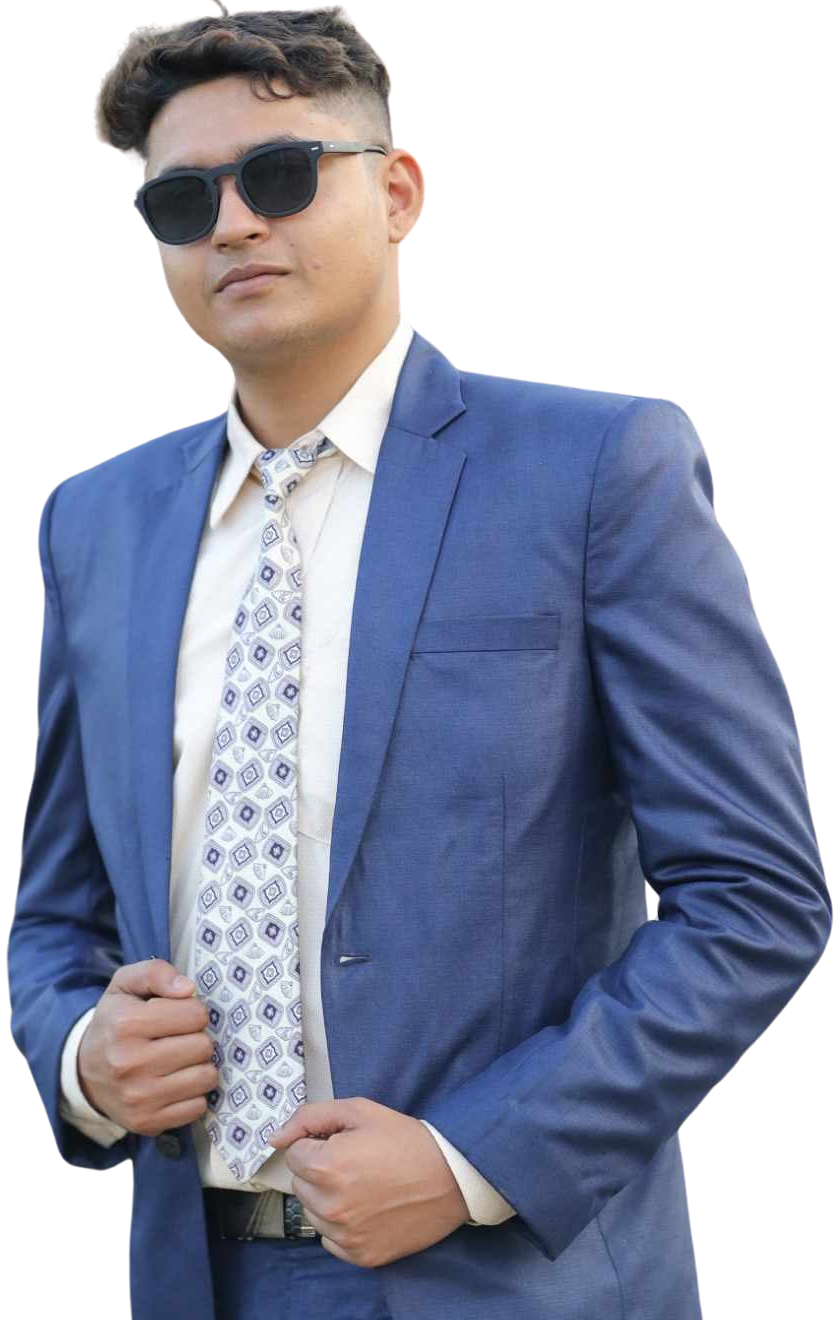
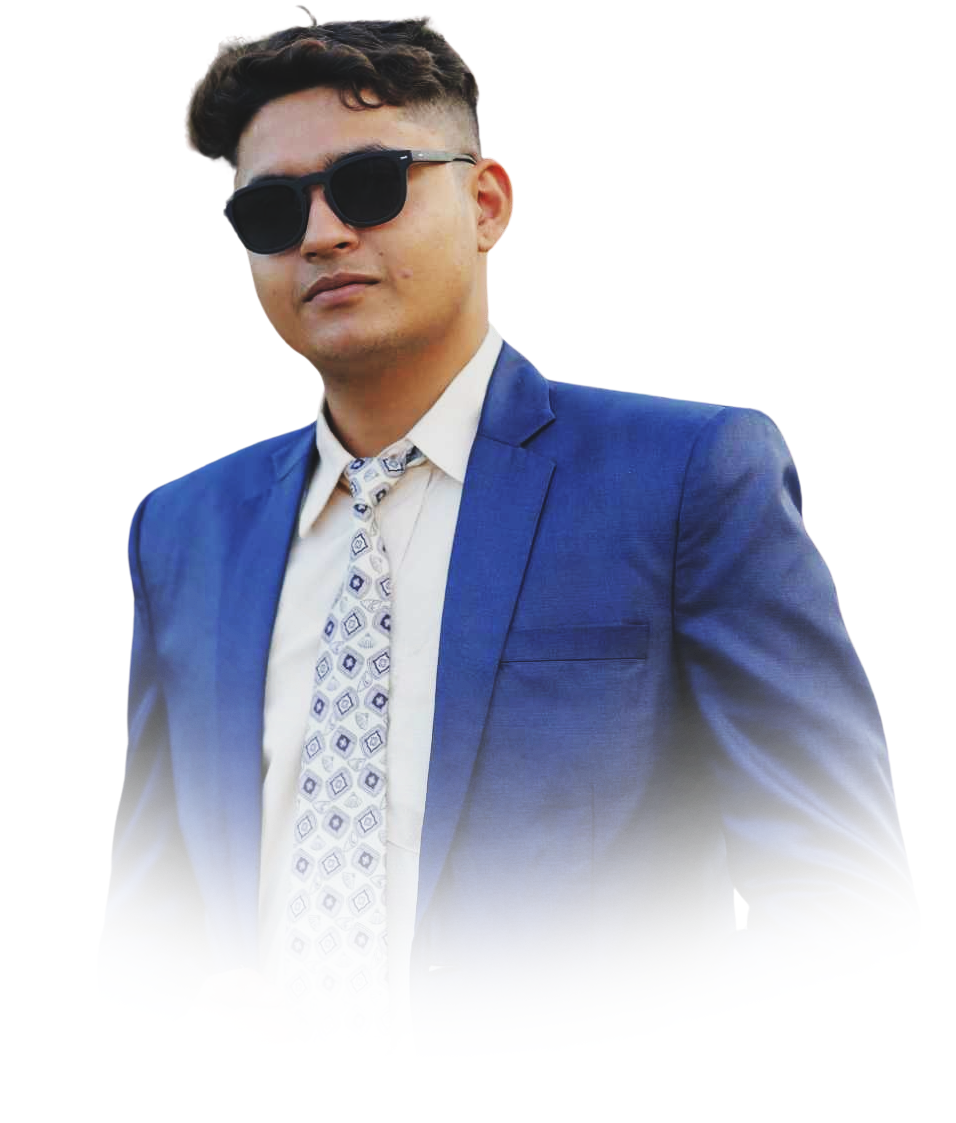
added images

diff --git a/index.html b/index.html
@@ -176,11 +176,7 @@
 
           <div class="col-lg-5 col-md-12 col-12">
             <div class="about-image svg">
-              <img
-                src="images/undraw/My__img.png"
-                class="img-fluid"
-                alt="svg image"
-              />
+              <img class="about-img" src="images/undraw/My__img.png" />
             </div>
           </div>
         </div>

diff --git a/css/style.css b/css/style.css
@@ -545,6 +545,10 @@ strong {
   color: #ffc200;
 }
 
+.about-img {
+  height: 600px;
+}
+
 @media (min-width: 1270px) {
   .owl-theme .owl-dots {
     position: relative;
@@ -563,7 +567,12 @@ strong {
 
   .about-image {
     margin-top: 4em;
+
+
+
   }
+
+
 
   .mobile-mt-2,
   .contact-form {
